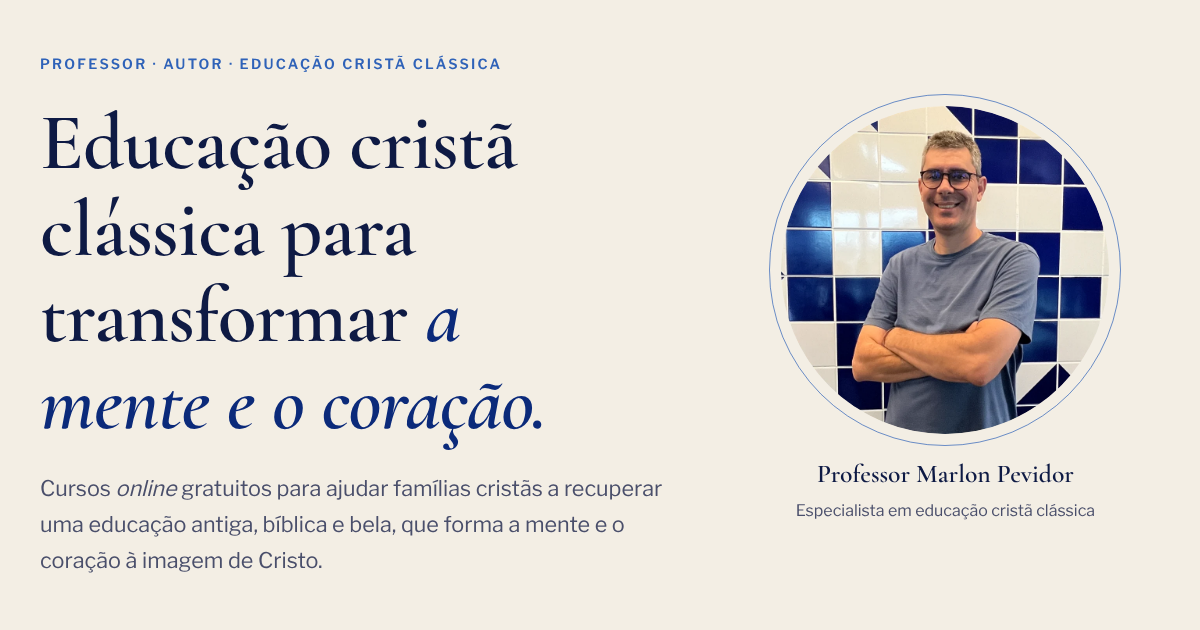
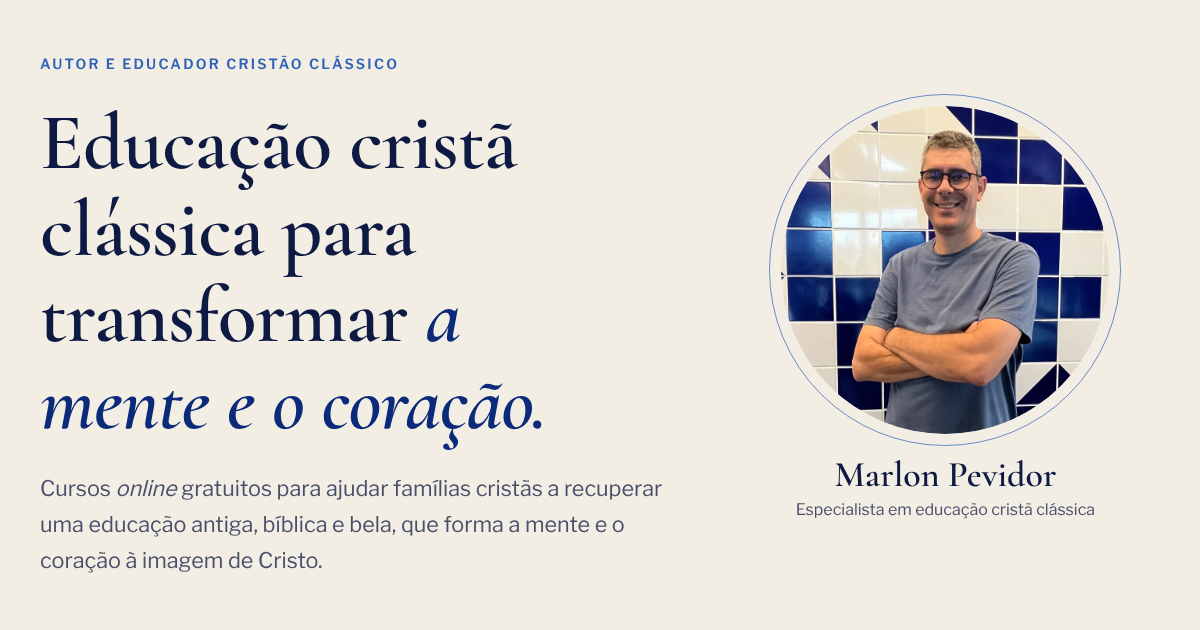
Página inicial: Mentoria desce até a faixa, nome abaixo da foto, foto ao lado de "O professor"
- Menu "Mentoria" desce até a faixa da mentoria; só o botão leva à página
- Abaixo da foto, só "Marlon Pevidor", em fonte maior
- Rótulo da abertura: "Autor e educador cristão clássico"
- Foto pequena em círculo à esquerda de "O professor / Marlon Pevidor"
- Rodapé só com a citação, sem o nome de Tomás de Aquino

Claude-Session: https://claude.ai/code/session_019zbxNExRumNR7DhoC4HdTc

Changed region(s): [[0.6783, 0.7238, 0.8942, 0.8444], [0.0308, 0.0905, 0.4317, 0.1206]]

diff --git a/index.html b/index.html
@@ -12,7 +12,7 @@
 <meta property="og:url" content="https://marlonpevidor.pages.dev/">
 <meta property="og:title" content="Marlon Pevidor · Educação Cristã Clássica">
 <meta property="og:description" content="Cursos online gratuitos para formar a mente e o coração de sua família.">
-<meta property="og:image" content="https://marlonpevidor.pages.dev/compartilhar.png?v=8">
+<meta property="og:image" content="https://marlonpevidor.pages.dev/compartilhar.png?v=9">
 <meta property="og:image:width" content="1200">
 <meta property="og:image:height" content="630">
 <meta name="twitter:card" content="summary_large_image">
@@ -36,7 +36,7 @@
     <a class="brand" href="./" title="Página inicial"><svg class="crest" viewBox="0 0 40 40" aria-hidden="true"><path d="M20 2 L36 8 V20 C36 29 28 35 20 38 C12 35 4 29 4 20 V8 Z" fill="none" stroke="currentColor" stroke-width="2.3" stroke-linejoin="round"/><g transform="translate(9.76 8.96) scale(0.08)" fill="currentColor"><path d="M216,92v24a16,16,0,0,1-16,16H156v92a16,16,0,0,1-16,16H116a16,16,0,0,1-16-16V132H56a16,16,0,0,1-16-16V92A16,16,0,0,1,56,76h44V32a16,16,0,0,1,16-16h24a16,16,0,0,1,16,16V76h44A16,16,0,0,1,216,92Z"/></g></svg><span>Marlon Pevidor</span></a>
     <nav aria-label="Menu">
       <a href="#cursos">Cursos</a>
-      <a href="mentoria/">Mentoria</a>
+      <a href="#mentoria">Mentoria</a>
       <a href="#livro">Livro</a>
       <a href="#professor">Sobre</a>
     </nav>
@@ -48,7 +48,7 @@
   <section class="hero">
     <div class="wrap">
       <div class="hero-copy">
-        <p class="caps">Professor · Autor · Educação cristã clássica</p>
+        <p class="caps">Autor e educador cristão clássico</p>
         <h1>Educação cristã clássica para transformar <em>a mente e o coração.</em></h1>
         <p class="lede">Cursos <em>online</em> gratuitos para ajudar famílias cristãs a recuperar uma educação antiga, bíblica e bela, que forma a mente e o coração à imagem de Cristo.</p>
         <div class="actions">
@@ -59,7 +59,7 @@
       <figure class="portrait">
         <span class="ring"><img src="assets/marlon.webp" alt="Professor Marlon Pevidor sorrindo, de óculos e braços cruzados, diante de uma parede de azulejos azuis e creme" width="840" height="840"></span>
         <figcaption>
-          <strong>Professor Marlon Pevidor</strong>
+          <strong>Marlon Pevidor</strong>
           <span>Especialista em educação cristã clássica</span>
         </figcaption>
       </figure>
@@ -99,7 +99,7 @@
     </div>
   </section>
 
-  <section class="band" aria-label="Mentoria">
+  <section class="band" id="mentoria" aria-label="Mentoria">
     <div class="wrap">
       <span class="label">Mentoria Educador Cristão Clássico</span>
       <p class="note">Da mera carreira a um chamado que transforma vidas: acompanhamento de 12 meses para professores e gestores que querem integrar fé cristã e educação clássica na prática.</p>
@@ -128,8 +128,13 @@
   <section class="story" id="professor">
     <div class="wrap">
       <div class="stack">
-        <p class="caps">O professor</p>
-        <h2>Marlon Pevidor</h2>
+        <div class="byline">
+          <img src="assets/marlon.webp" alt="" width="840" height="840" loading="lazy">
+          <div>
+            <p class="caps">O professor</p>
+            <h2>Marlon Pevidor</h2>
+          </div>
+        </div>
         <p>Antes de qualquer coisa, Marlon é discípulo de Jesus Cristo: foi convencido de seus pecados, redimido e selado pelo Espírito Santo em 1999. É casado com Kelen desde 2004 e pai de três filhos, Victoria, Arthur e Miguel, que também confessaram Jesus como Senhor.</p>
         <p>A família é membro da Igreja Batista Central de Taguatinga, em Brasília, onde Marlon serviu como diretor de educação cristã de 2021 a 2024, aplicando os princípios da educação cristã clássica no contexto da igreja local.</p>
         <p>É professor de humanidades integradas na Logos Online School, em Moscow, Idaho (EUA), uma escola <em>online</em> que serve famílias educadoras.</p>
@@ -181,7 +186,7 @@
 <footer>
   <div class="wrap">
     <em lang="la">Gratia non tollit naturam, sed perficit.</em>
-    <span>Tomás de Aquino · © <span id="year">2026</span> Marlon Pevidor</span>
+    <span>© <span id="year">2026</span> Marlon Pevidor</span>
   </div>
 </footer>
 <script>document.getElementById("year").textContent = new Date().getFullYear();</script>

diff --git a/estilo.css b/estilo.css
@@ -349,3 +349,12 @@ footer em { font-family: var(--font-display); font-size: 1.3rem; color: var(--in
 .center-quote { border-left: 0; padding-left: 0; justify-items: center; max-width: 44rem; }
 .center-quote p { font-size: clamp(1.4rem, 2.4vw, 1.75rem); max-width: none; }
 .about.solo .wrap { grid-template-columns: minmax(0, 1fr); }
+
+/* nome maior abaixo da foto da abertura */
+.portrait figcaption strong { font-size: clamp(1.9rem, 3vw, 2.3rem); line-height: 1.15; }
+
+/* rótulo + título com a foto pequena em círculo à esquerda (seção "O professor") */
+.byline { display: flex; align-items: center; gap: 1.1rem; }
+.byline > div { display: grid; gap: .35rem; }
+.byline img { width: 84px; height: 84px; flex: none; border-radius: 50%; object-fit: cover; outline: 1px solid var(--azure); outline-offset: 4px; }
+@media (max-width: 760px) { .byline img { width: 68px; height: 68px; } }

diff --git a/iecc/index.html b/iecc/index.html
@@ -234,7 +234,7 @@
 <footer>
   <div class="wrap">
     <em lang="la">Gratia non tollit naturam, sed perficit.</em>
-    <span>Tomás de Aquino · © <span id="year">2026</span> Marlon Pevidor</span>
+    <span>© <span id="year">2026</span> Marlon Pevidor</span>
   </div>
 </footer>
 <script>

diff --git a/CLAUDE.md b/CLAUDE.md
@@ -19,6 +19,10 @@ Endereços: `marlonpevidor.pages.dev` (principal) e `curso-iecc.pages.dev` (anti
 - Cada página de curso tem suas próprias perguntas frequentes; a página inicial não tem.
 - `/#aula-N` redireciona para `/iecc/#aula-N` (links antigos das descrições do YouTube).
 - Toda página interna volta à página inicial tocando na marca do topo (`../`). Páginas de curso têm "Outros cursos".
+- Página inicial: TODOS os links do menu descem para seções da própria página (Cursos, Mentoria, Livro, Sobre).
+  "Mentoria" desce até a faixa `#mentoria`; só o botão da faixa leva a `mentoria/`.
+- Abertura da página inicial: rótulo "Autor e educador cristão clássico"; abaixo da foto, só "Marlon Pevidor"
+  (igual à marca do topo), em fonte maior. Seção "O professor": foto pequena em círculo à esquerda do rótulo e do nome (`.byline`).
 
 ## Identidade visual (modelo da mentoria)
 - Fontes: Cormorant Garamond (títulos, citações, numerais) e Libre Franklin (texto, rótulos em maiúsculas, botões).
@@ -56,7 +60,8 @@ Endereços: `marlonpevidor.pages.dev` (principal) e `curso-iecc.pages.dev` (anti
   meta tags/título da aba, que não aceitam itálico. Em rótulos em maiúsculas, o `<em>` usa o itálico da Cormorant Garamond.
   Títulos e descrições das aulas (`MODULOS`) aceitam `<em>`.
 - Tríade sempre em ordem alfabética: "beleza, bondade e verdade".
-- Rodapé: *Gratia non tollit naturam, sed perficit.* — Tomás de Aquino (Suma Teológica I, q. 1, a. 8, ad 2).
+- Rodapé: só a citação *Gratia non tollit naturam, sed perficit.* (Tomás de Aquino, Suma Teológica I, q. 1, a. 8, ad 2),
+  sem o nome do autor, e "© ano Marlon Pevidor".
 - Botão da página inicial: "Começar pelo curso de introdução". Bio: "uma escola online que serve famílias educadoras".
 - Verificar com: `grep -rniP "\b(d|n|pel)?[oa]s?\s+(meu|minha|seu|sua|nosso|nossa)s?\b" --include=*.html .`
 
